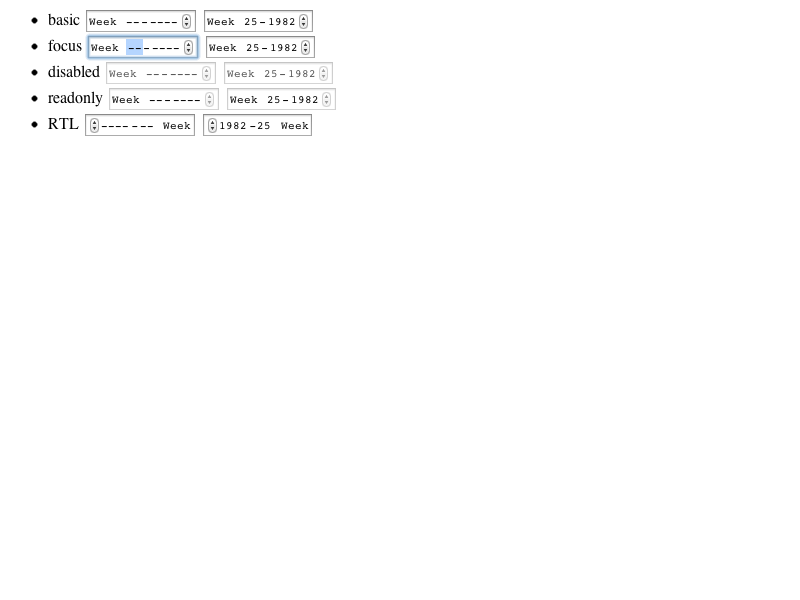
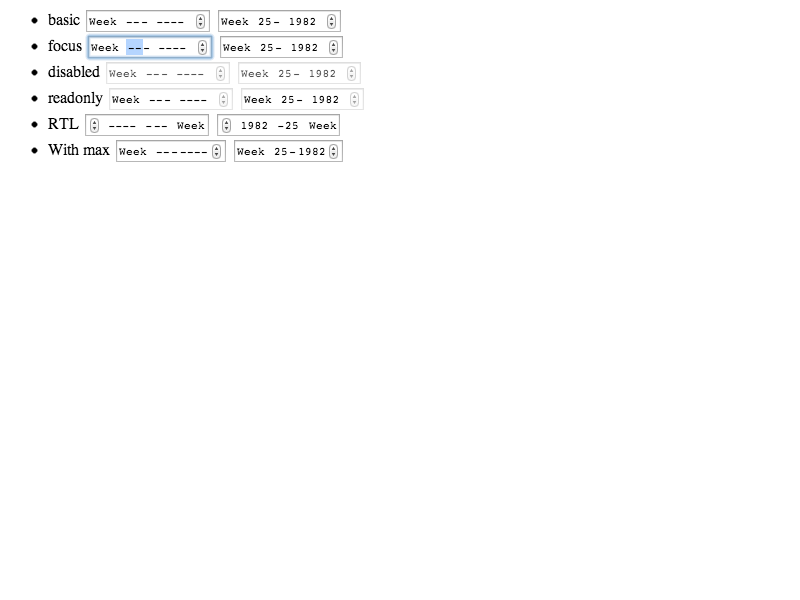
Fix sub-field width to the maximum width of a placeholder and the maximum value https://bugs.webkit.org/show_bug.cgi?id=98481
Reviewed by Hajime Morita.

Source/WebCore:

We can't assume a placeholder text is shorter than the width of
digits. The placeholder string for the year field of
input[type=week] is "----", but input[type=date] will have a
localized string for it.

We should set the 'width' CSS property to the maximum of the
placeholder width and the maximum value width in order to prevent
the field width from growing/narrowing.

Before this patch, we secured four digits space for a year field,
and allowed the field to grow its width when a larger year is
set. After this patch, we don't allow it to grow because the
'width' property is set to the maximum width.

Update week-multiple-fields-appearance-basic.html, and the
following tests are affected.
- fast/forms/week-multiple-fields/week-multiple-fields-appearance-pseudo-classes.html
- fast/forms/week-multiple-fields/week-multiple-fields-appearance-pseudo-elements.html
- fast/forms/week-multiple-fields/week-multiple-fields-appearance-style.html

* html/shadow/DateTimeNumericFieldElement.cpp:
(WebCore::DateTimeNumericFieldElement::DateTimeNumericFieldElement):
Enable customStyleForRenderer.
(WebCore::DateTimeNumericFieldElement::customStyleForRenderer):
Added. The code is similar to DateTimeSymbolicFieldElement::customStyleForRenderer().
(WebCore::DateTimeNumericFieldElement::formatValue):
Made a function with the code in value(). This is used in
customStyleForRenderer() and value().
[…]

Changed region(s): [[0.0625, 0.0, 0.4688, 0.27], [0.0625, 0.15, 0.125, 0.18], [0.0625, 0.03, 0.0938, 0.09]]

diff --git a/LayoutTests/fast/forms/week-multiple-fields/week-multiple-fields-appearance-basic.html b/LayoutTests/fast/forms/week-multiple-fields/week-multiple-fields-appearance-basic.html
@@ -6,6 +6,7 @@
     <li>disabled <input type="week" disabled> <input type="week" value="1982-W25" disabled></li>
     <li>readonly <input type="week" readonly> <input type="week" value="1982-W25" readonly></li>
     <li>RTL <input type="week" dir="rtl"> <input type="week" value="1982-W25" dir="rtl"></li>
+    <li>With max <input type="week" max="9999-W52"> <input type="week" value="1982-W25" max="9999-W52"></li>
 </ul>
 </body>
 <script>

diff --git a/Source/WebCore/html/shadow/DateTimeNumericFieldElement.cpp b/Source/WebCore/html/shadow/DateTimeNumericFieldElement.cpp
@@ -27,8 +27,12 @@
 #if ENABLE(INPUT_MULTIPLE_FIELDS_UI)
 #include "DateTimeNumericFieldElement.h"
 
+#include "FontCache.h"
 #include "KeyboardEvent.h"
 #include "Localizer.h"
+#include "RenderStyle.h"
+#include "StyleResolver.h"
+#include "TextRun.h"
 #include <wtf/text/StringBuilder.h>
 
 namespace WebCore {
@@ -62,11 +66,23 @@ DateTimeNumericFieldElement::DateTimeNumericFieldElement(Document* document, Fie
     , m_value(0)
     , m_hasValue(false)
 {
+    setHasCustomCallbacks();
 }
 
 int DateTimeNumericFieldElement::clampValueForHardLimits(int value) const
 {
     return clampValue(value);
+}
+
+PassRefPtr<RenderStyle> DateTimeNumericFieldElement::customStyleForRenderer()
+{
+    FontCachePurgePreventer fontCachePurgePreventer;
+    RefPtr<RenderStyle> originalStyle = document()->styleResolver()->styleForElement(this);
+    RefPtr<RenderStyle> style = RenderStyle::clone(originalStyle.get());
+    float maxiumWidth = style->font().width(m_placeholder);
+    maxiumWidth = std::max(maxiumWidth, style->font().width(formatValue(maximum())));
+    style->setWidth(Length(maxiumWidth, Fixed));
+    return style.release();
 }
 
 int DateTimeNumericFieldElement::defaultValueForStepDown() const
@@ -83,6 +99,16 @@ void DateTimeNumericFieldElement::didBlur()
 {
     m_lastDigitCharTime = 0;
     DateTimeFieldElement::didBlur();
+}
+
+String DateTimeNumericFieldElement::formatValue(int value) const
+{
+    Localizer& localizer = localizerForOwner();
+    if (m_range.maximum > 999)
+        return localizer.convertToLocalizedNumber(String::format("%04d", value));
+    if (m_range.maximum > 99)
+        return localizer.convertToLocalizedNumber(String::format("%03d", value));
+    return localizer.convertToLocalizedNumber(String::format("%02d", value));
 }
 
 void DateTimeNumericFieldElement::handleKeyboardEvent(KeyboardEvent* keyboardEvent)
@@ -173,17 +199,7 @@ void DateTimeNumericFieldElement::stepUp()
 
 String DateTimeNumericFieldElement::value() const
 {
-    if (!m_hasValue)
-        return emptyString();
-
-    Localizer& localizer = localizerForOwner();
-    if (m_range.maximum > 999)
-        return localizer.convertToLocalizedNumber(String::format("%04d", m_value));
-
-    if (m_range.maximum > 99)
-        return localizer.convertToLocalizedNumber(String::format("%03d", m_value));
-
-    return localizer.convertToLocalizedNumber(String::format("%02d", m_value));
+    return m_hasValue ? formatValue(m_value) : emptyString();
 }
 
 int DateTimeNumericFieldElement::valueAsInteger() const

diff --git a/Source/WebCore/html/shadow/DateTimeNumericFieldElement.h b/Source/WebCore/html/shadow/DateTimeNumericFieldElement.h
@@ -68,6 +68,9 @@ protected:
     virtual String visibleValue() const OVERRIDE FINAL;
 
 private:
+    // Element function.
+    virtual PassRefPtr<RenderStyle> customStyleForRenderer() OVERRIDE;
+
     // DateTimeFieldElement functions.
     virtual void didBlur() OVERRIDE FINAL;
     virtual void handleKeyboardEvent(KeyboardEvent*) OVERRIDE FINAL;
@@ -76,6 +79,7 @@ private:
     virtual void stepUp() OVERRIDE FINAL;
     virtual String value() const OVERRIDE FINAL;
 
+    String formatValue(int) const;
     Localizer& localizerForOwner() const;
 
     DOMTimeStamp m_lastDigitCharTime;
